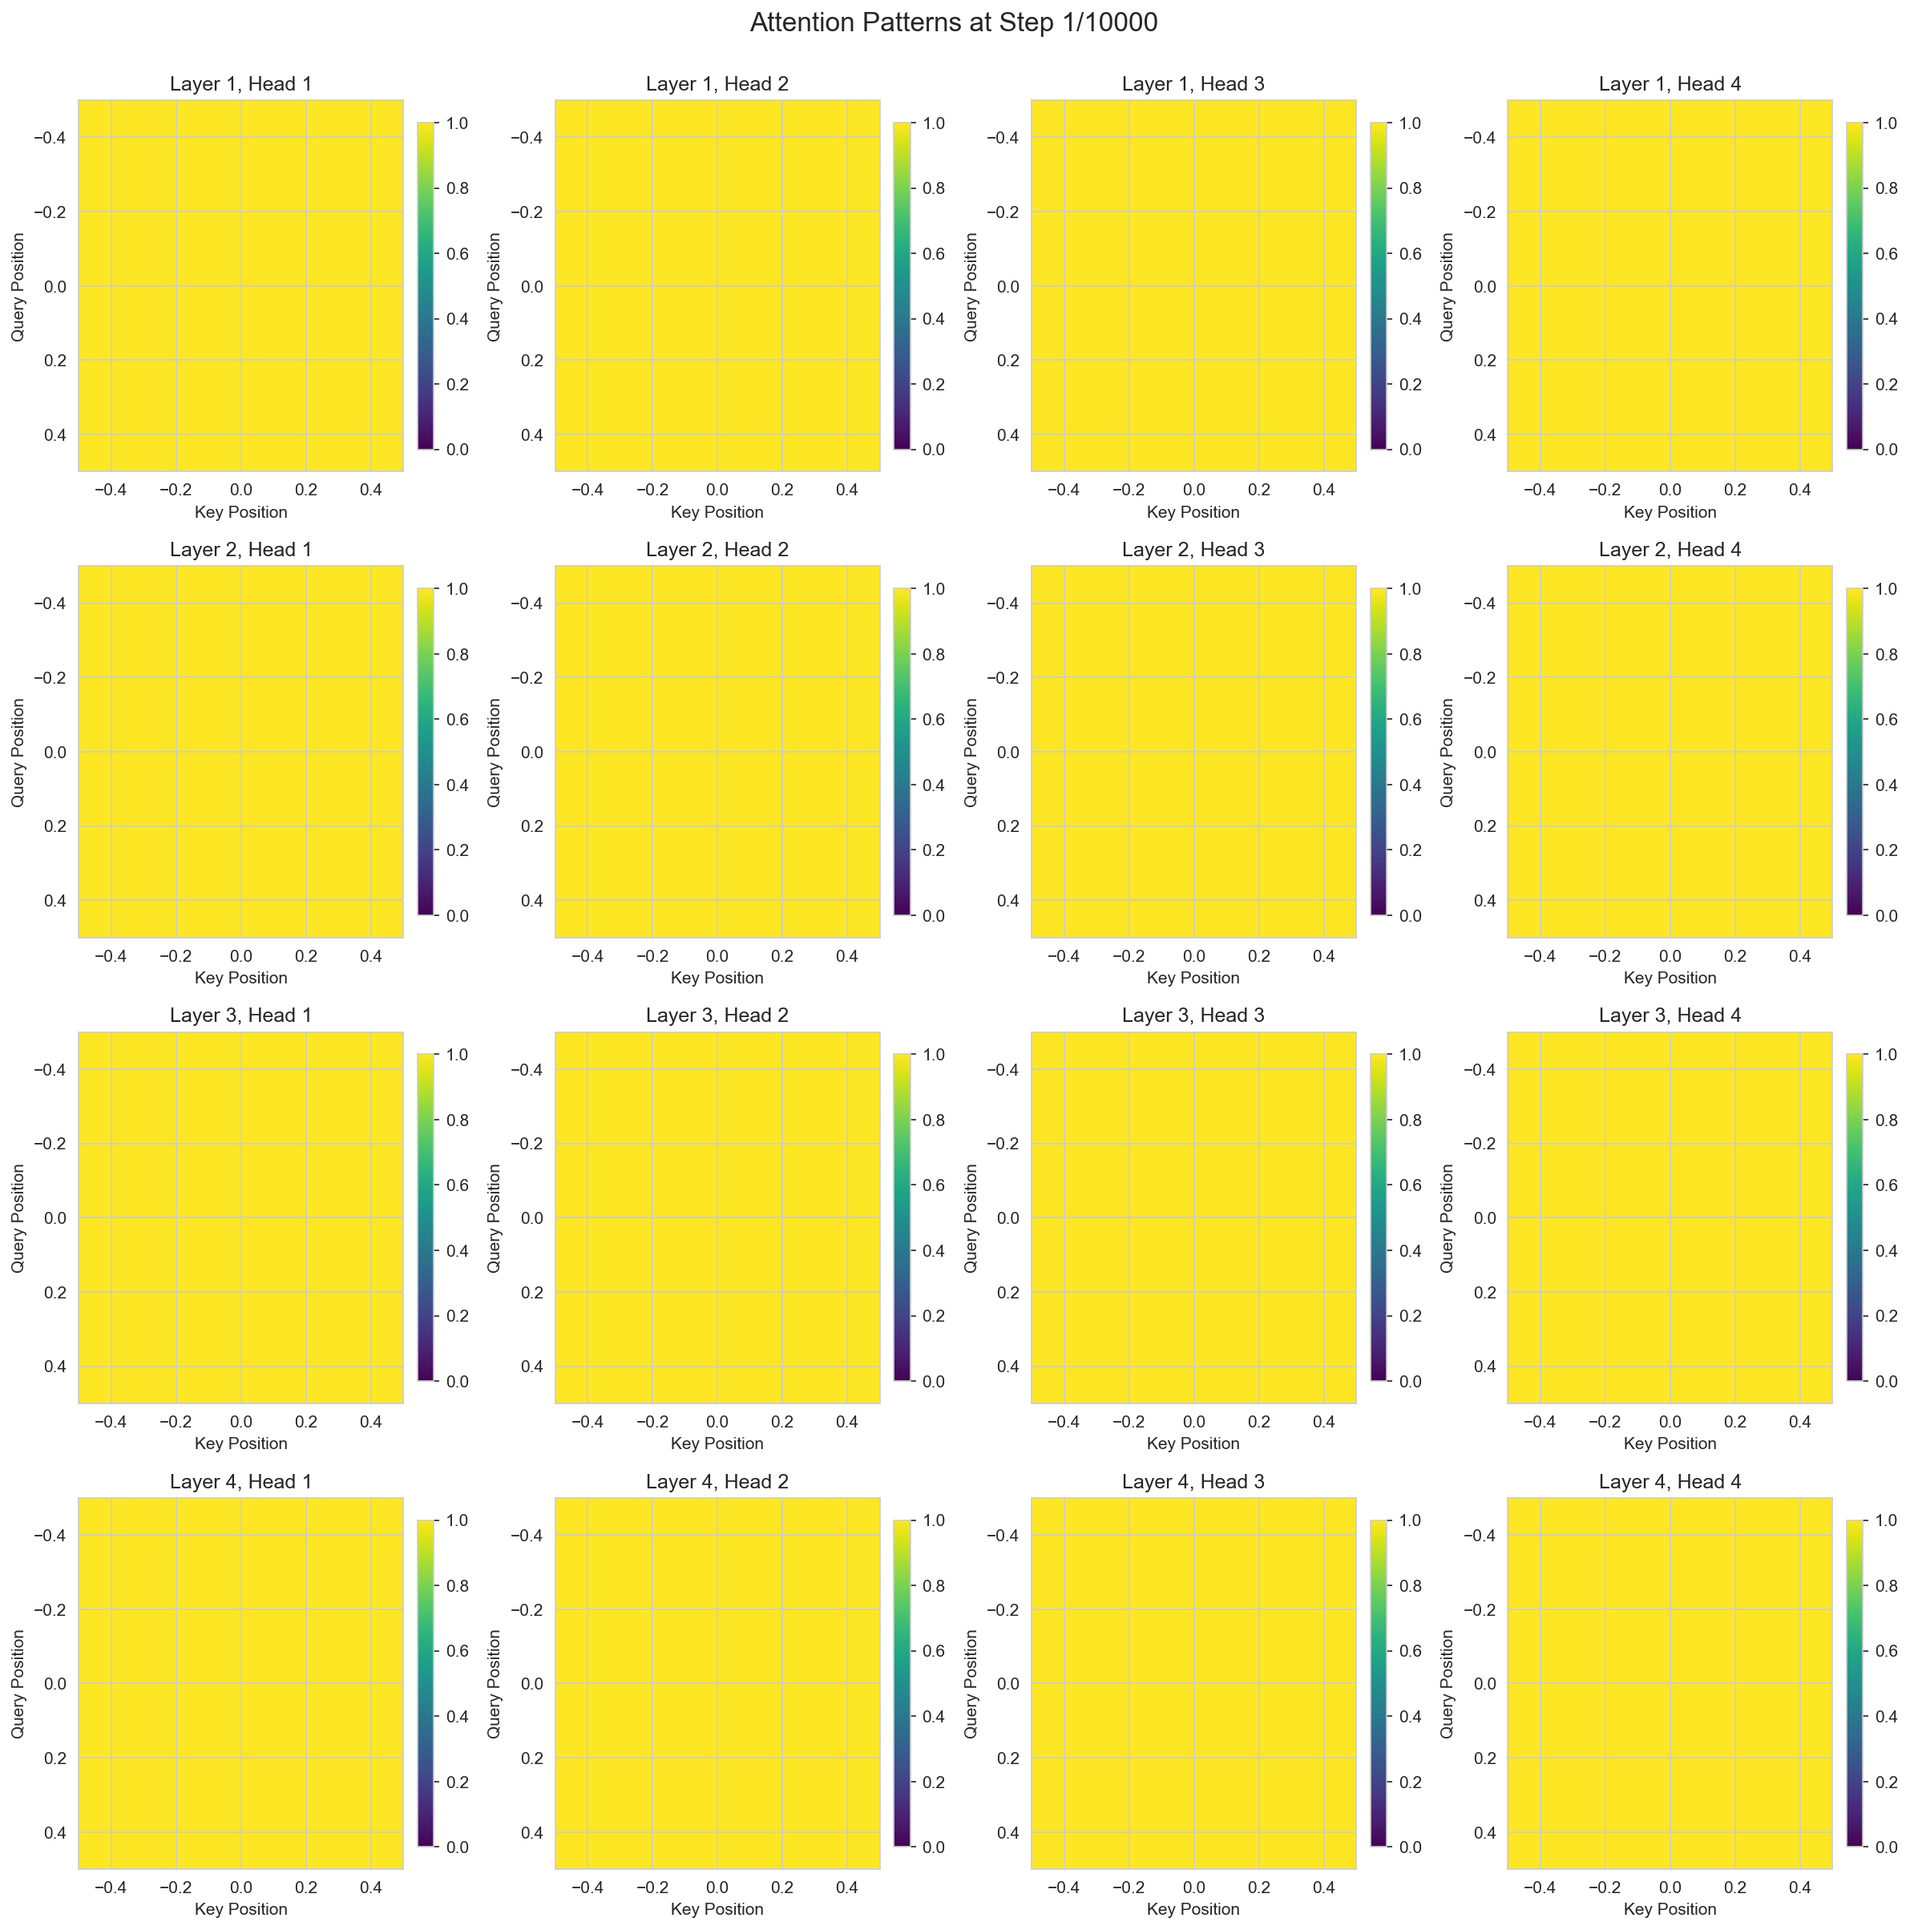
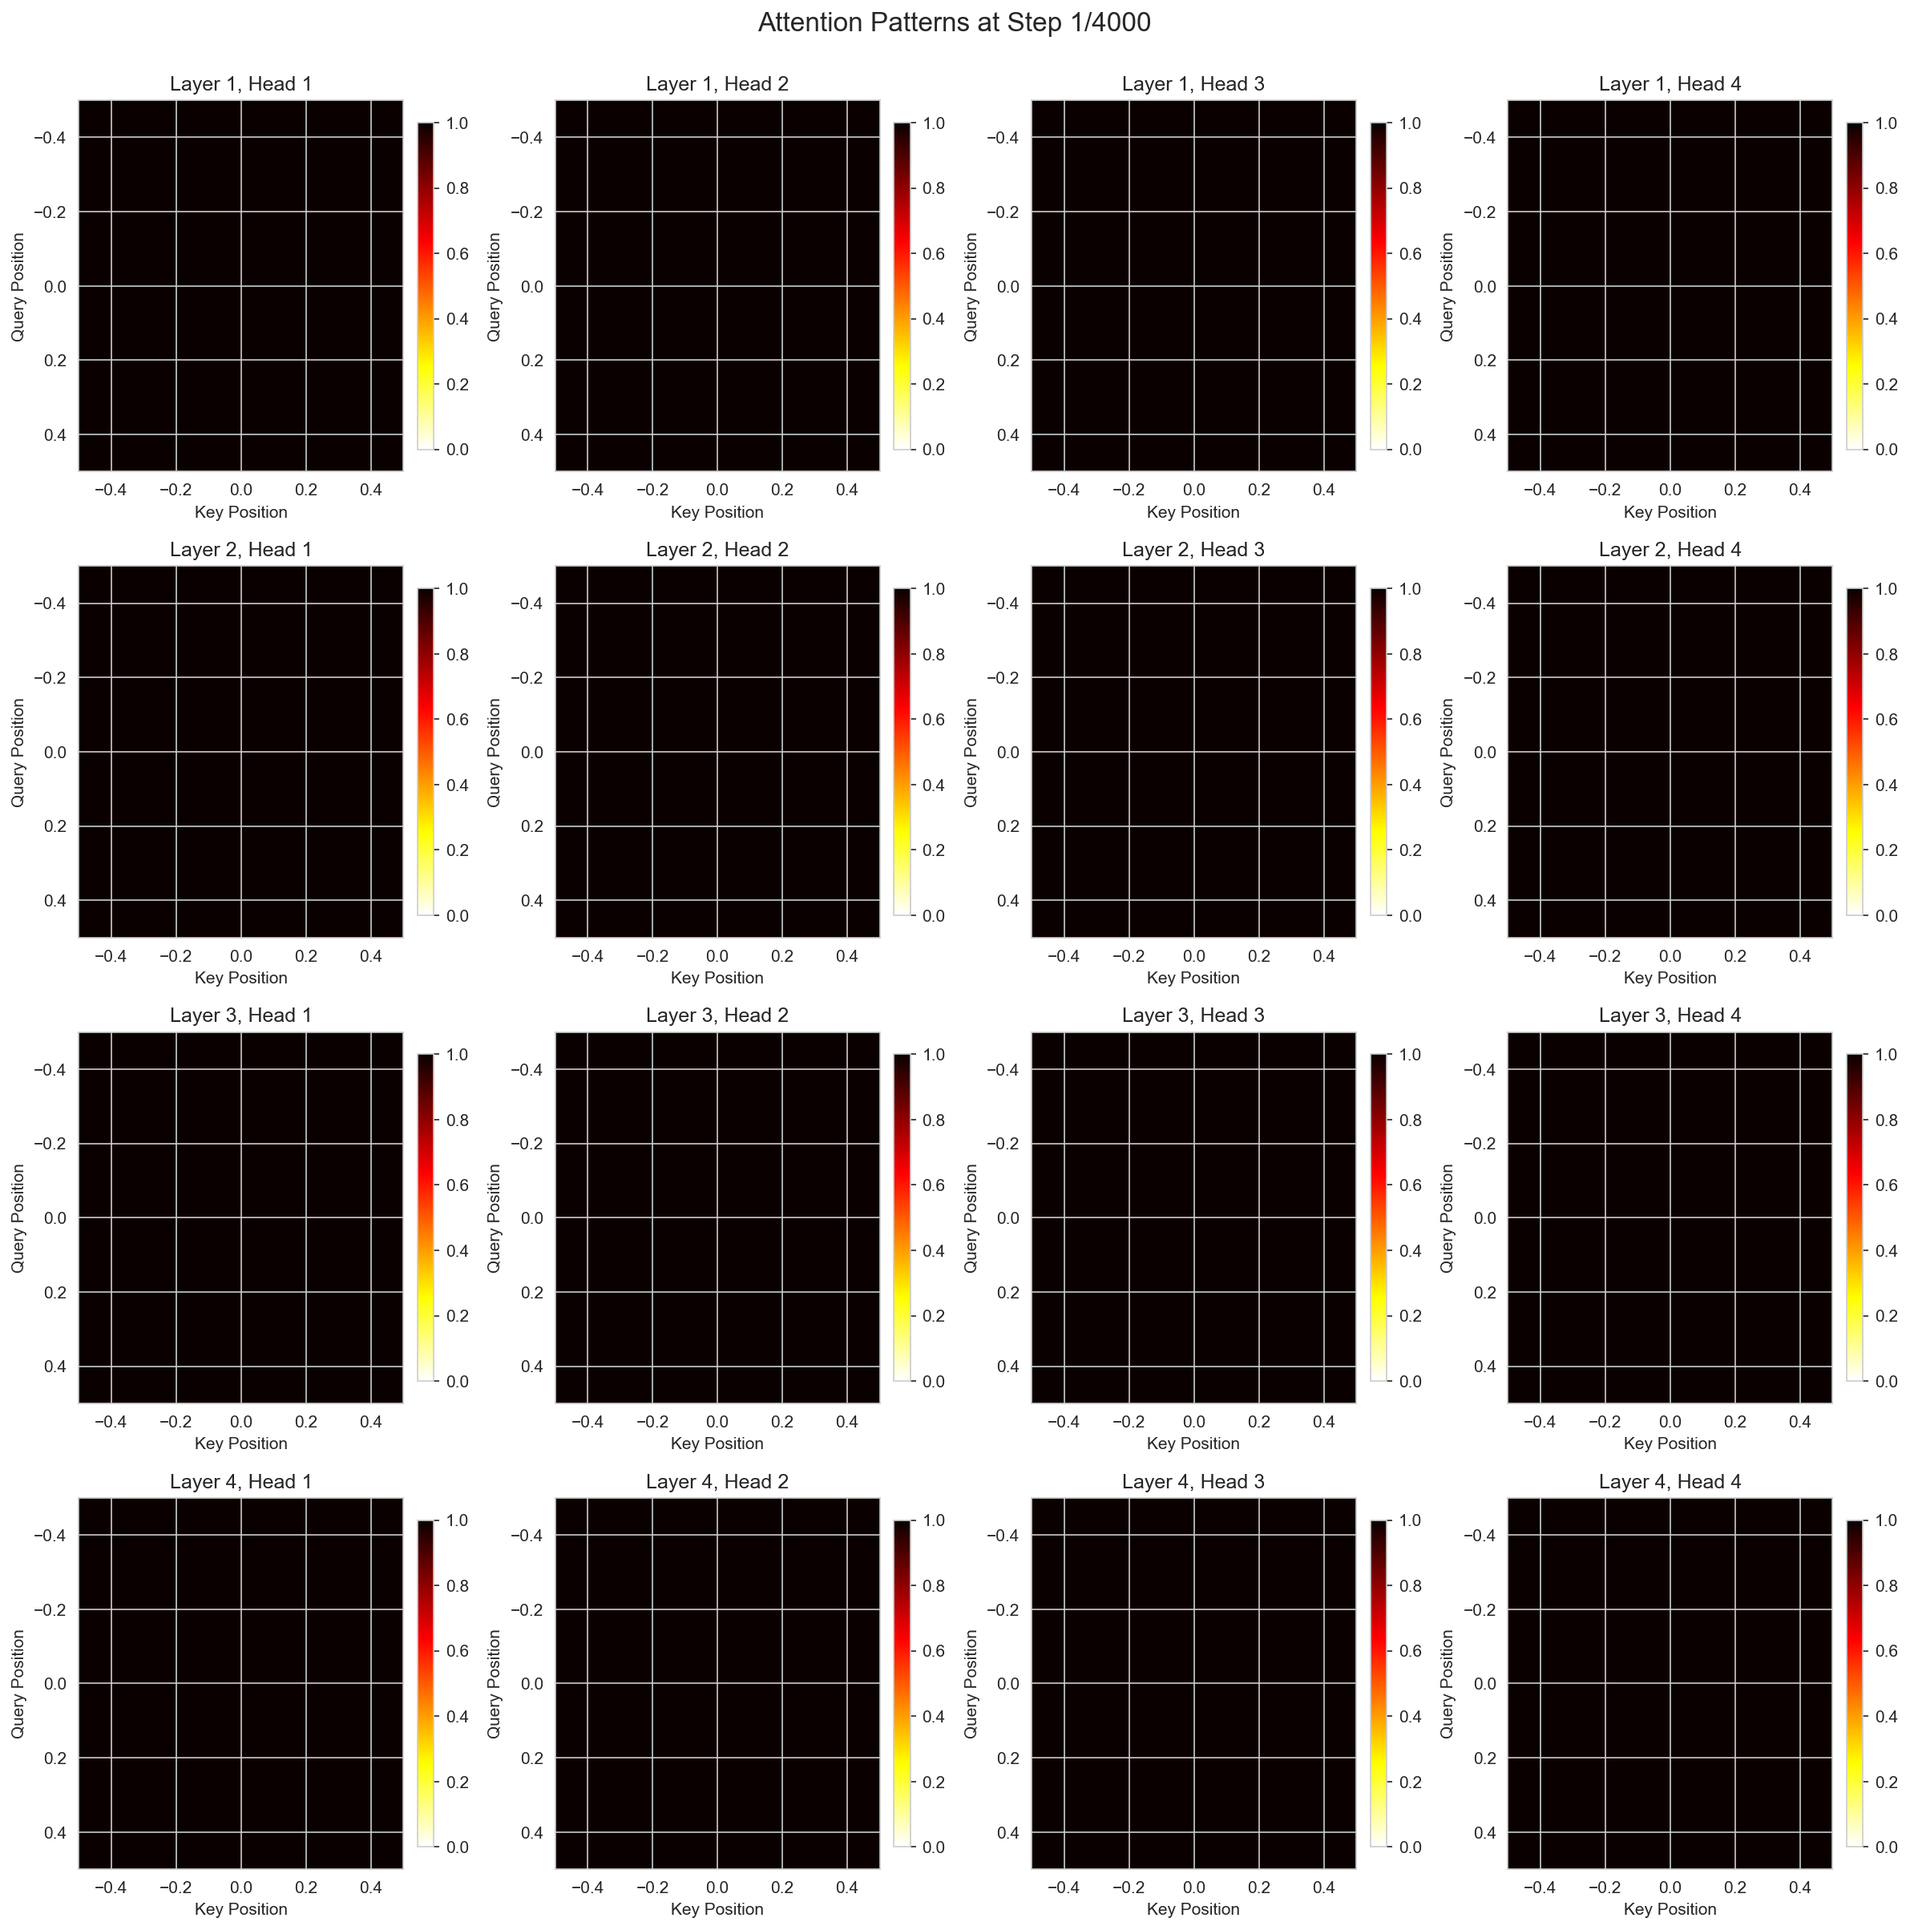
more samples of attention heatmaps

diff --git a/evaluate_with_attention.py b/evaluate_with_attention.py
@@ -211,7 +211,7 @@ if __name__ == '__main__':
     print("Evaluation goals: ", test_env_args)
 
     if env_name == 'darkroom':
-        envs = SubprocVecEnv([make_env(config, goal=test_env_args[7])])
+        envs = SubprocVecEnv([make_env(config, goal=test_env_args[3])])
     else:
         raise NotImplementedError(f'Environment not supported')
     
@@ -225,7 +225,7 @@ if __name__ == '__main__':
     # Evaluate with attention capture
     # Use a reasonable number of episodes for analysis (not just timesteps)
     # Typical episode length is config['horizon'], so run multiple episodes
-    eval_episodes = 500  
+    eval_episodes = 200
     eval_timesteps = config['horizon'] * eval_episodes
     
     print(f"Running evaluation for {eval_episodes} episodes (~{eval_timesteps} steps)")
@@ -262,6 +262,7 @@ if __name__ == '__main__':
     print(f"Saved attention history to {attention_path}")
     
     print("\nRewards:")
+    print(results['reward_episode'])
     print(f"  Mean reward: {results['reward_episode'].mean():.2f}")
     print(f"  Std deviation: {results['reward_episode'].std():.2f}")
     

diff --git a/analyze_attention.py b/analyze_attention.py
@@ -60,8 +60,8 @@ def visualize_attention_heatmaps(attention_history, output_dir, num_samples=5):
             for head_idx in range(num_heads):
                 ax = axes[layer_idx, head_idx]
                 
-                # Plot attention heatmap
-                im = ax.imshow(attn[head_idx], cmap='viridis', aspect='auto', 
+                # Plot attention heatmap with high contrast colormap (reversed)
+                im = ax.imshow(attn[head_idx], cmap='hot_r', aspect='auto', 
                               vmin=0, vmax=1)
                 ax.set_title(f'Layer {layer_idx+1}, Head {head_idx+1}')
                 ax.set_xlabel('Key Position')
@@ -448,7 +448,7 @@ if __name__ == '__main__':
     
     # Generate different visualizations
     print("\n1. Creating attention heatmaps...")
-    visualize_attention_heatmaps(attention_history, output_dir, num_samples=20)
+    visualize_attention_heatmaps(attention_history, output_dir, num_samples=50)
     
     print("\n2. Analyzing attention to positions...")
     visualize_attention_to_positions(attention_history, output_dir)
